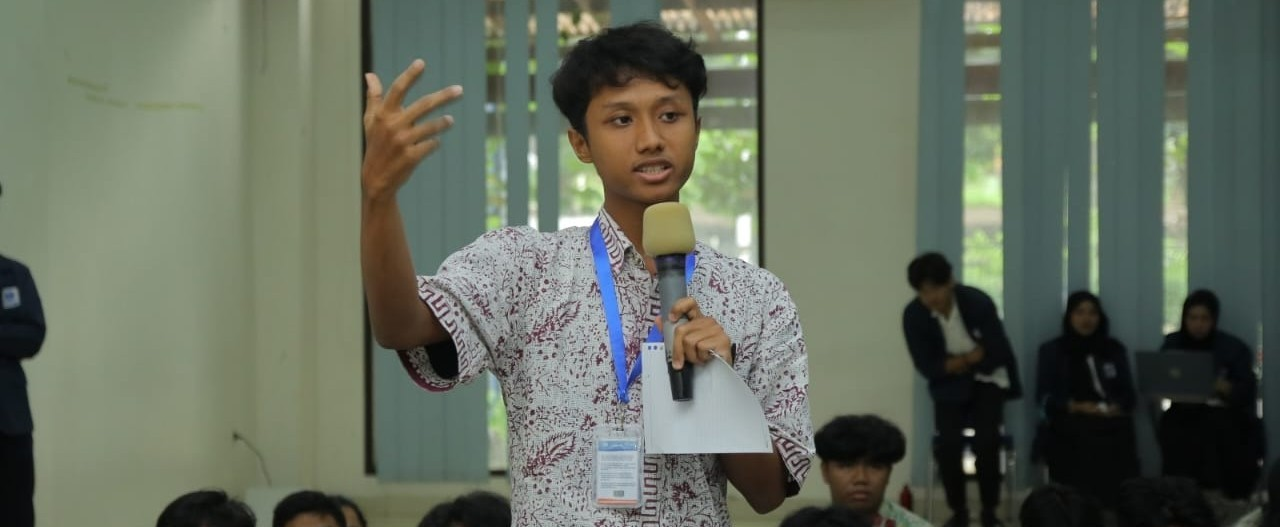
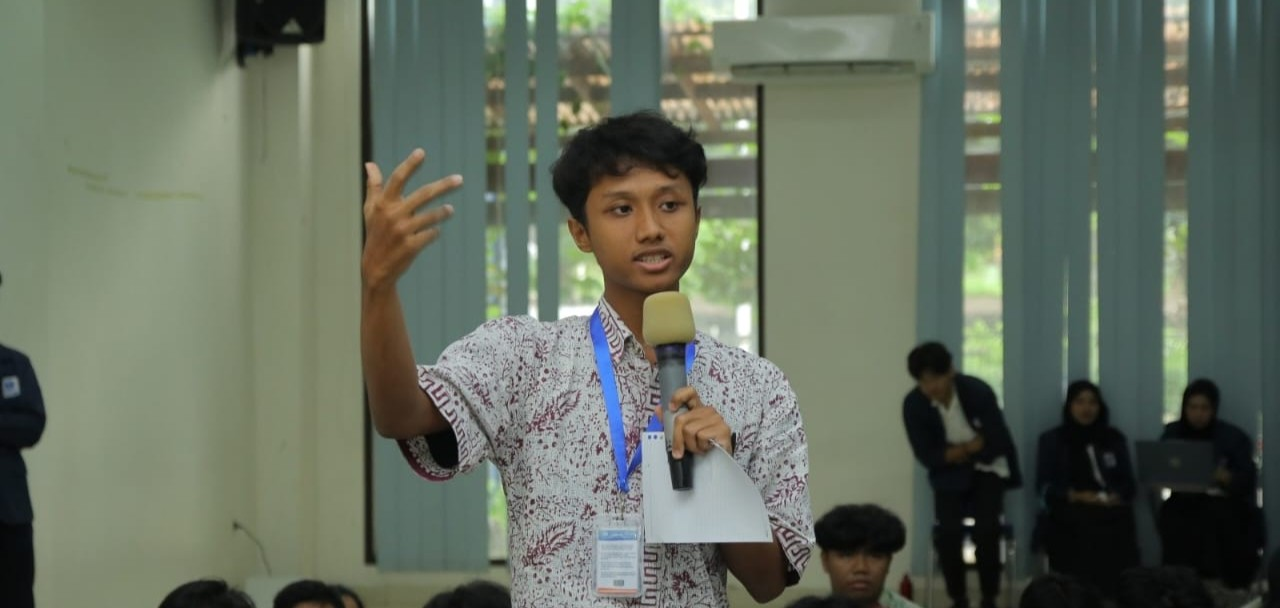
update

diff --git a/Pertemuan15/Tugas Praktikum/my_django_app/profileapp/templates/profileapp/base.html b/Pertemuan15/Tugas Praktikum/my_django_app/profileapp/templates/profileapp/base.html
@@ -1,6 +1,7 @@
 {% load static %}
 <!doctype html>
 <html lang="id">
+
 <head>
     <meta charset="utf-8">
     <title>Profile Saya - Tugas DDP</title>
@@ -14,76 +15,106 @@
     <link rel="stylesheet" href="https://cdnjs.cloudflare.com/ajax/libs/font-awesome/6.5.1/css/all.min.css">
 
     <style>
-        .bg-teal { background-color: #000000 !important; }
-        .carousel-item img { height: 400px; object-fit: cover; }
-        body { min-height: 100vh; display: flex; flex-direction: column; }
-        footer { margin-top: auto; }
+        .bg-teal {
+            background-color: #000000 !important;
+        }
+
+        /* Carousel styling: full width and crop dengan object-fit */
+        .carousel-item {
+            height: 50vh;        /* ubah sesuai kebutuhan (mis. 60vh atau 400px) */
+            min-height: 300px;
+            position: relative;
+            overflow: hidden;
+        }
+
+        .carousel-item img {
+            position: absolute;
+            top: 0;
+            left: 0;
+            width: 100%;
+            height: 100%;
+            object-fit: cover; /* menjaga proporsi, namun mengisi seluruh area */
+        }
+
+        body {
+            min-height: 100vh;
+            display: flex;
+            flex-direction: column;
+        }
+
+        footer {
+            margin-top: auto;
+        }
     </style>
 </head>
+
 <body>
 
-<!-- CAROUSEL HEADER -->
-<div id="headerCarousel" class="carousel slide" data-bs-ride="carousel">
-    <div class="carousel-indicators">
-        <button data-bs-target="#headerCarousel" data-bs-slide-to="0" class="active"></button>
-        <button data-bs-target="#headerCarousel" data-bs-slide-to="1"></button>
-        <button data-bs-target="#headerCarousel" data-bs-slide-to="2"></button>
-    </div>
-
-    <div class="carousel-inner">
-        <div class="carousel-item active">
-            <img src="{% static 'img/7.jpeg' %}" class="w-100">
-            <div class="carousel-caption">
-                <h5>Selamat Datang</h5>
-                <p>Website Profile Pribadi</p>
+    <!-- NAVBAR (tetap di atas) -->
+    <nav class="navbar navbar-expand-lg navbar-dark bg-teal shadow sticky-top">
+        <div class="container">
+            <a class="navbar-brand fw-bold" href="{% url 'home' %}">Profile</a>
+            <button class="navbar-toggler" data-bs-toggle="collapse" data-bs-target="#nav">
+                <span class="navbar-toggler-icon"></span>
+            </button>
+            <div id="nav" class="collapse navbar-collapse">
+                <ul class="navbar-nav me-auto">
+                    <li class="nav-item"><a class="nav-link" href="{% url 'home' %}">Home</a></li>
+                    <li class="nav-item"><a class="nav-link" href="{% url 'about' %}">About</a></li>
+                    <li class="nav-item"><a class="nav-link" href="{% url 'gallery' %}">Gallery</a></li>
+                </ul>
             </div>
         </div>
-        <div class="carousel-item">
-            <img src="{% static 'img/5.jpeg' %}" class="w-100">
-        </div>
-        <div class="carousel-item">
-            <img src="{% static 'img/8.jpeg' %}" class="w-100">
-        </div>
-    </div>
+    </nav>
 
-    <button class="carousel-control-prev" data-bs-target="#headerCarousel" data-bs-slide="prev">
-        <span class="carousel-control-prev-icon"></span>
-    </button>
-    <button class="carousel-control-next" data-bs-target="#headerCarousel" data-bs-slide="next">
-        <span class="carousel-control-next-icon"></span>
-    </button>
-</div>
+    <!-- CAROUSEL (dipindahkan di bawah NAVBAR, full-bleed) -->
+    <div id="headerCarousel" class="carousel slide" data-bs-ride="carousel">
+        <div class="carousel-indicators">
+            <button type="button" data-bs-target="#headerCarousel" data-bs-slide-to="0" class="active" aria-current="true" aria-label="Slide 1"></button>
+            <button type="button" data-bs-target="#headerCarousel" data-bs-slide-to="1" aria-label="Slide 2"></button>
+            <button type="button" data-bs-target="#headerCarousel" data-bs-slide-to="2" aria-label="Slide 3"></button>
+        </div>
 
-<!-- NAVBAR -->
-<nav class="navbar navbar-expand-lg navbar-dark bg-teal shadow sticky-top">
-    <div class="container">
-        <a class="navbar-brand fw-bold" href="{% url 'home' %}">Profile</a>
-        <button class="navbar-toggler" data-bs-toggle="collapse" data-bs-target="#nav">
-            <span class="navbar-toggler-icon"></span>
+        <div class="carousel-inner">
+            <div class="carousel-item active">
+                <img src="{% static 'img/7.jpeg' %}" class="d-block w-100" alt="...">
+                <div class="carousel-caption d-none d-md-block">
+                    <h5>Selamat Datang</h5>
+                    <p>Website Profile Pribadi</p>
+                </div>
+            </div>
+            <div class="carousel-item">
+                <img src="{% static 'img/5.jpeg' %}" class="d-block w-100" alt="...">
+            </div>
+            <div class="carousel-item">
+                <img src="{% static 'img/8.jpeg' %}" class="d-block w-100" alt="...">
+            </div>
+        </div>
+
+        <button class="carousel-control-prev" type="button" data-bs-target="#headerCarousel" data-bs-slide="prev">
+            <span class="carousel-control-prev-icon" aria-hidden="true"></span>
+            <span class="visually-hidden">Previous</span>
         </button>
-        <div id="nav" class="collapse navbar-collapse">
-            <ul class="navbar-nav me-auto">
-                <li class="nav-item"><a class="nav-link" href="{% url 'home' %}">Home</a></li>
-                <li class="nav-item"><a class="nav-link" href="{% url 'about' %}">About</a></li>
-                <li class="nav-item"><a class="nav-link" href="{% url 'gallery' %}">Gallery</a></li>
-            </ul>
+        <button class="carousel-control-next" type="button" data-bs-target="#headerCarousel" data-bs-slide="next">
+            <span class="carousel-control-next-icon" aria-hidden="true"></span>
+            <span class="visually-hidden">Next</span>
+        </button>
+    </div>
+
+    <!-- CONTENT -->
+    <div class="container my-5">
+        {% block content %}{% endblock %}
+    </div>
+
+    <!-- FOOTER -->
+    <footer class="bg-teal text-white py-3">
+        <div class="container">
+            <small>Created by <b>Dzaki Fasya</b> © 2026</small>
         </div>
-    </div>
-</nav>
+    </footer>
 
-<!-- CONTENT -->
-<div class="container my-5">
-    {% block content %}{% endblock %}
-</div>
-
-<!-- FOOTER -->
-<footer class="bg-teal text-white py-3">
-    <div class="container">
-        <small>Created by <b>Dzaki Fasya</b> © 2026</small>
-    </div>
-</footer>
-
-<!-- Bootstrap JS LOCAL -->
-<script src="{% static 'js/bootstrap.bundle.min.js' %}"></script>
+    <!-- Bootstrap JS LOCAL -->
+    <script src="{% static 'js/bootstrap.bundle.min.js' %}"></script>
 </body>
+
 </html>

diff --git a/Pertemuan15/Tugas Praktikum/my_django_app/profileapp/templates/profileapp/gallery.html b/Pertemuan15/Tugas Praktikum/my_django_app/profileapp/templates/profileapp/gallery.html
@@ -4,20 +4,63 @@
 
 <h2 class="fw-bold text-center mb-4">Gallery</h2>
 
+<style>
+    /* Bisa dipindah ke style.css kalau mau permanen */
+    .gallery-card {
+        border-radius: 15px;
+        overflow: hidden;
+    }
+
+    .gallery-card img {
+        width: 100%;
+        height: 260px;
+        /* ubah tinggi di sini jika mau lebih tinggi/rendah */
+        object-fit: cover;
+        /* biar gambar rapi dan tidak gepeng */
+        display: block;
+    }
+
+    .gallery-caption {
+        padding: 12px 16px;
+    }
+
+    .gallery-caption .card-text {
+        margin: 0;
+        font-weight: 700;
+        /* teks tebal */
+        font-size: 1rem;
+        /* ukuran font */
+        letter-spacing: 0.02em;
+        /* sedikit jarak antar huruf */
+        font-family: "Poppins", system-ui, -apple-system, BlinkMacSystemFont, "Segoe UI", sans-serif;
+        text-align: center;
+        /* rata tengah */
+    }
+</style>
+
 <div class="row row-cols-1 row-cols-md-3 g-4">
     <div class="col">
-        <div class="card shadow">
-            <img src="{% static 'img/6.jpeg' %}" class="card-img-top">
+        <div class="card shadow gallery-card text-center">
+            <img src="{% static 'img/4.png' %}" class="card-img-top" alt="Foto 1">
+            <div class="card-body gallery-caption">
+                <p class="card-text">Presentasi Linux</p>
+            </div>
         </div>
     </div>
     <div class="col">
-        <div class="card shadow">
-            <img src="{% static 'img/10.jpeg' %}" class="card-img-top">
+        <div class="card shadow gallery-card text-center">
+            <img src="{% static 'img/BRIN3.jpeg' %}" class="card-img-top" alt="Foto 2">
+            <div class="card-body gallery-caption">
+                <p class="card-text">Praktikum Networking BRIN</p>
+            </div>
         </div>
     </div>
     <div class="col">
-        <div class="card shadow">
-            <img src="{% static 'img/profile.jpg' %}" class="card-img-top">
+        <div class="card shadow gallery-card text-center">
+            <img src="{% static 'img/BRIN.jpeg' %}" class="card-img-top" alt="Foto 3">
+            <div class="card-body gallery-caption">
+                <p class="card-text">Monitoring Server BRIN</p>
+            </div>
         </div>
     </div>
 </div>

diff --git a/Pertemuan15/Tugas Praktikum/my_django_app/profileapp/templates/profileapp/about.html b/Pertemuan15/Tugas Praktikum/my_django_app/profileapp/templates/profileapp/about.html
@@ -16,7 +16,7 @@
                 <h3 class="fw-bold mb-3">Tentang Saya</h3>
                 <p>
                     Saya adalah mahasiswa Teknik Informatika yang tertarik
-                    pada pengembangan web dan teknologi modern.
+                    pada Web Development dan Networking.
                 </p>
 
                 <h5 class="mt-4">Visi & Misi</h5>
